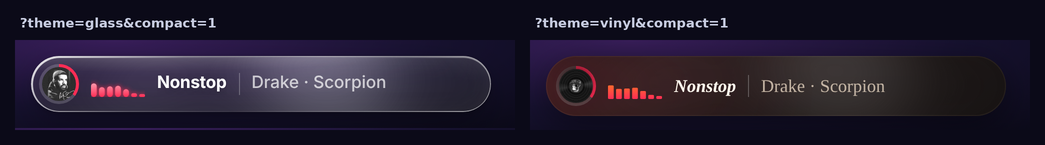
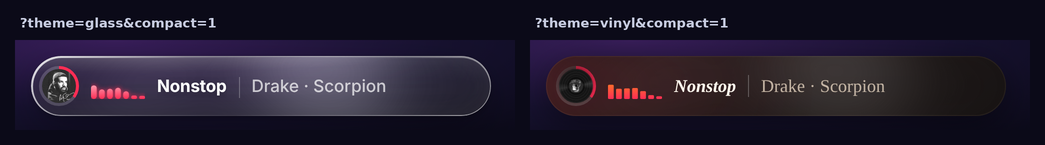
Compact: text at the same height in every theme (#11)
* Compact: center title and artist vertically by their capitals

Each font sits differently in its line box, so a centered line could
still look high or low. The overlay now measures the font and shifts
title and artist so the middle of the capital letters is on the middle
of the pill, within a pixel in all eight themes.

* Compact: same pill height in every theme, so the text sits at the same place

Glass and Retro were 56 px tall, Counter-Strike 67 px (uneven padding for
its stripe). All compact pills are now 60 px with the text centered.

---------

diff --git a/overlay.html b/overlay.html
@@ -260,7 +260,8 @@
      Progress shows as a ring around the round cover. */
   body.compact { --cap: rgba(255,255,255,0); }
   body.compact.classic { --bar-round: 1; }
-  body.compact #card { display: inline-flex; width: var(--cw, 460px); box-sizing: border-box; padding: 10px 20px 10px 10px; border-radius: 999px; gap: 12px; align-items: center; }
+  /* one fixed height for every theme, so the text sits at the same place in all of them */
+  body.compact #card { display: inline-flex; width: var(--cw, 460px); height: 60px; box-sizing: border-box; padding: 10px 20px 10px 10px; border-radius: 999px; gap: 12px; align-items: center; }
   body.compact #art-wrap {
     /* progress as a ring filling clockwise around the cover */
     width: 40px; height: 40px; border-radius: 50%; box-shadow: none;
@@ -421,6 +422,7 @@
   /* compact versions keep the hard edges */
   body.compact.lol #card, body.compact.cs #card { border-radius: 0; }
   body.compact.cs #label { display: none; }
+  body.compact.cs #card { padding: 10px 20px 10px 10px; }
   body.compact.faceit #card { display: inline-flex; width: var(--cw, 460px); padding: 10px 20px 10px 10px; }
   body.compact.faceit #info { display: flex; }
   body.compact.faceit #art-wrap { width: 40px; height: 40px; }
@@ -581,6 +583,24 @@ function setMarquee(el, text) {
     }
   });
 }
+
+// Compact: fonts sit differently in their line box (VT323, Cinzel, Rajdhani...), so
+// a centered line can still look high or low. Shift title and artist so the middle
+// of their capital letters lands on the middle of the line.
+function centerCompactText() {
+  if (!opt.compact) return;
+  const c = document.createElement('canvas').getContext('2d');
+  for (const id of ['title', 'artist']) {
+    const el = $(id), cs = getComputedStyle(el);
+    c.font = `${cs.fontStyle} ${cs.fontWeight} ${cs.fontSize} ${cs.fontFamily}`;
+    const m = c.measureText('H');
+    const shift = (m.fontBoundingBoxDescent + m.actualBoundingBoxAscent - m.fontBoundingBoxAscent) / 2;
+    el.style.position = 'relative';
+    el.style.top = shift.toFixed(2) + 'px';
+  }
+}
+document.fonts.ready.then(centerCompactText);
+document.fonts.addEventListener('loadingdone', centerCompactText);
 
 function setArt(url) {
   if (!url || url === curArt) return;
